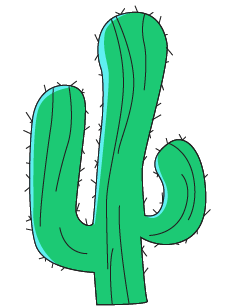
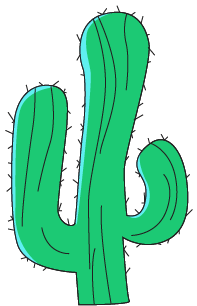
obstacles and score done

Changed region(s): [[0.0305, 0.0, 0.9746, 1.0], [0.2132, 0.7353, 0.3655, 0.8529]]

diff --git a/js/index.js b/js/index.js
@@ -3,11 +3,17 @@ const canvas = document.querySelector(`canvas`);
 canvas.style.border = `2px solid black`;
 const ctx = canvas.getContext(`2d`);
 const startScreen = document.querySelector(".start-screen");
-let keys = {};
+const gameScreen = document.querySelector("#game-screen");
+const restartScreen = document.querySelector(".restart-screen");
+// Score
+let score = document.querySelector(".score");
+let scoreValue = 0;
+let highscore = document.querySelector(".highScore");
+
 // Variables
 // key pressed
 let registerKeyPress = 0;
-let amountOfPressedAllowed = 5;
+let amountOfPressedAllowed = 4;
 // Game definitions
 const floor_01 = new Image();
 floor_01.src = "../img/floor.png";
@@ -15,17 +21,30 @@ const floor_02 = new Image();
 floor_02.src = "../img/floor.png";
 const background = new Image();
 background.src = "../img/background.png";
-const obstacle = new Image();
-obstacle.src = "../img/cactus_01.png";
+const obstacle_01 = new Image();
+obstacle_01.src = "../img/cactus_01.png";
+const obstacle_02 = new Image();
+obstacle_02.src = "../img/cactus_02.png";
+const dino_frame_count = 2;
+const frame_time = 100;
 
 let isGameOver = false;
 let gameId = 0;
 let gravity;
+let gameSpeed;
+let obstacles = [];
+
 // Dinocorn definitions
 let player;
-const dinoCorn = new Image();
-dinoCorn.src = "../img/dino_walk_01.png";
+const dinoCorn_01 = new Image();
+dinoCorn_01.src = "../img/dino_walk_01.png";
+const dinoCorn_02 = new Image();
+dinoCorn_02.src = "../img/dino_walk_02.png";
+const dinoCorn_jump = new Image();
+dinoCorn_jump.src = "../img/dino_jump.png";
+
 let jumping = false;
+
 class Dinocorn {
   constructor() {
     this.dinoX = 50;
@@ -34,77 +53,159 @@ class Dinocorn {
     this.dinoHeight = 160;
     this.originalHeigh = this.dinoY;
     this.vY = 0;
-    this.gravity = 10;
+    this.gravity = 8;
 
     this.jumpTimer = 0;
     this.grounded = false;
     this.jumpForce + 15;
+    this.groundLimit = canvas.height - 180;
   }
 
   Jump() {
-    this.vY = -8;
+    this.vY += -8;
+    jumping = true;
+
     console.log("yes");
+    console.log(jumping);
   }
   Move() {
+    let timeinAir = 0;
     //this.dinoY = -canvas.height + 600;
     if (this.dinoY + this.dinoHeight < canvas.height && jumping == false) {
       this.dinoY += this.gravity;
     }
-    if (this.dinoY < -canvas.height + 600) {
-      this.dinoY += this.gravity;
-      this.vY = 0;
-      jumping == false;
-    } else {
+    if (jumping === true) {
+      console.log("hello");
       this.dinoY += this.vY;
+    } else if (this.dinoY + this.dinoHeight > 580 && jumping == false) {
+      this.dinoY = canvas.height - 180;
+      this.vY = 0;
     }
-    /*  this.dinoY += this.vY;
-    this.vY += this.gravity;
-    if (this.dinoY > canvas.height || this.dinoY < this.originalHeigh - 180) {
-      this.dinoY = this.originalHeigh;
+    if (this.dinoY < 100) {
+      jumping = false;
+    }
+  }
+  Draw() {
+    if (jumping) {
+      ctx.drawImage(
+        dinoCorn_jump,
+        this.dinoX,
+        this.dinoY,
+        this.dinoWidth,
+        this.dinoHeight
+      );
+    } /* if (gameId % 2 === 0) */ else {
+      ctx.drawImage(
+        dinoCorn_01,
+        this.dinoX,
+        this.dinoY,
+        this.dinoWidth,
+        this.dinoHeight
+      );
+
+      setInterval(function () {
+        ctx.drawImage(
+          dinoCorn_02,
+          this.dinoX,
+          this.dinoY,
+          this.dinoWidth,
+          this.dinoHeight
+        );
+      }, 100);
+    } /*  else {
+      ctx.drawImage(
+        dinoCorn_02,
+        this.dinoX,
+        this.dinoY,
+        this.dinoWidth,
+        this.dinoHeight
+      );
     } */
-  }
-  Draw() {
-    ctx.drawImage(
-      dinoCorn,
-      this.dinoX,
-      this.dinoY,
-      this.dinoWidth,
-      this.dinoHeight
-    );
-  }
-}
-// Obstacles
-class Obstacle {
-  constructor() {
-    this.x = 50;
-    this.y = canvas.height - 180;
-    this.width = 100;
-    this.height = 160;
-    this.dX = -gameSpeed;
-  }
-  Update() {
-    this.x += this.dX;
-    this.Draw;
-    this.dX = -gameSpeed;
-  }
-  Draw() {
-    ctx.drawImage(obstacle, this.x, this.y, this.width, this.height);
   }
 }
 
+// Obstacles
+
+class Obstacle {
+  constructor(type) {
+    this.x = 1500;
+    this.y = canvas.height - 180;
+    this.width = 100;
+    this.height = 160;
+    // this.dX = -gameSpeed;
+    this.type = type;
+  }
+  /* Update() {
+    this.x += this.dX;
+    this.Draw;
+    this.dX = -gameSpeed;
+  } */
+  Draw() {
+    ctx.drawImage(this.type, this.x, this.y, this.width, this.height);
+    //ctx.drawImage(obstacle_02, this.x, this.y, this.width, this.height);
+  }
+}
+
+function RandomObstRange(min, max) {
+  return Math.round(Math.random() * (max - min) + min);
+}
+// Obstacles Creation definition
+/* let inicialTimeOb = 200;
+let intervalTimeOb = 200; */
+let obstaclesFrequency = 0;
 //floor definitions
 let floorW = 0;
 let floorW2 = canvas.width;
 
+function detectCollision(obstacle) {
+  return (
+    player.dinoX + player.dinoWidth - 20 > obstacle.x &&
+    player.dinoY + player.dinoHeight > obstacle.y &&
+    player.dinoX < obstacle.x + obstacle.width - 50
+  );
+}
 const animate = () => {
+  ctx.clearRect(0, 0, canvas.width, canvas.height);
   ctx.drawImage(background, 0, 0, canvas.width, canvas.height);
   ctx.drawImage(floor_01, floorW, canvas.height - 100, canvas.width + 50, 20);
   ctx.drawImage(floor_02, floorW2, canvas.height - 100, canvas.width + 50, 20);
 
   player.Draw();
   player.Move();
+
   console.log("test");
-  // Make Dino Jump
+
+  obstaclesFrequency++;
+
+  if (gameId % 500 == 0) {
+    //Draw an obstacle
+
+    let type = RandomObstRange(0, 1);
+    if (type === 0) {
+      type = obstacle_01;
+    } else if (type === 1) {
+      type = obstacle_02;
+    }
+    let newObstacle = new Obstacle(type);
+    obstacles.push(newObstacle);
+    console.log(obstacles);
+  }
+  for (let i = 0; i < obstacles.length; i++) {
+    obstacles[i].x -= 6;
+    obstacles[i].Draw();
+
+    if (detectCollision(obstacles[i])) {
+      alert("BOOOOOMM!");
+      isGameOver = true;
+      obstaclesFrequency = 0;
+
+      obstacles = [];
+      player = null;
+      scoreValue = 0;
+      score.innerHTML = 0;
+    }
+  }
+  // Make obstacles
 
   // Make the floor move
 
@@ -116,12 +217,23 @@ const animate = () => {
   if (floorW2 < -canvas.width) {
     floorW2 = canvas.width;
   }
+  //request animation
   if (isGameOver) {
     cancelAnimationFrame(gameId);
+    restartScreen.classList.remove(`hidden`);
+    gameScreen.classList.add("hidden");
   } else {
     // Ask for a new frame
     gameId = requestAnimationFrame(animate);
   }
+  scoreValue++;
+
+  score.innerHTML = scoreValue;
+  if (scoreValue > highscore.innerText) {
+    highscore.innerHTML = scoreValue;
+  }
+  console.log(highscore.innerHTML);
+  //scoreValue = Number(score.innerText);
 };
 
 window.onload = () => {
@@ -130,18 +242,41 @@ window.onload = () => {
     //song.play()
     startGame();
   };
-  function startGame() {
-    startScreen.style.display = "none";
+  document.getElementById("restart-button").onclick = () => {
+    console.log("restarting");
+    //song.play()
+    isGameOver = false;
 
+    startGame();
+  };
+  function startGame() {
+    restartScreen.classList.add("hidden");
+    startScreen.style.display = "none";
+    gameScreen.classList.remove("hidden");
+    //gameSpeed = 3;
+
+    //highscore = 0;
+
+    /* scoreText = new Text("Score: " + score, 25, 25, "left", "#212121", "20");
+    highscoreText = new Text(
+      "Highscore: " + highscore,
+      canvas.width - 25,
+      25,
+      "right",
+      "#212121",
+      "20"
+    ); */
     player = new Dinocorn();
     animate();
+
     document.addEventListener("keydown", (event) => {
       if (event.code === "Space") {
         console.log("jump");
         jumping = true;
         registerKeyPress++;
+
         player.Jump();
-        if (registerKeyPress >= 5) {
+        if (registerKeyPress >= amountOfPressedAllowed) {
           player.vY = 0;
           jumping = false;
           player.jumpTimer = 0;
@@ -150,9 +285,10 @@ window.onload = () => {
     });
     document.addEventListener("keyup", () => {
       player.vY = 0;
+
       jumping = false;
 
-      registerKeyPress = 0;
+      setTimeout(() => (registerKeyPress = 0), "300");
     });
   }
 };

diff --git a/index.html b/index.html
@@ -12,15 +12,33 @@
       <div class="logo">
         <img src="/img/dino_game_logo.png" alt="Dino Game" />
       </div>
+      <!-- <div class="high-score-div">
+        <p>Highscore: <span class="highScore"> 0 </span></p>
+      </div> -->
       <button id="start-button">
         <img src="/img/button_start.png" alt="start button" />
       </button>
     </div>
 
-    <div id="game-screen">
+    <div id="game-screen" class="hidden">
+      <div class="scores">
+        <div class="high-score-div">
+          <p>Highscore: <span class="highScore"> 0 </span></p>
+        </div>
+        <div id="score-div">
+          <p>Score: <span class="score"> 0 </span></p>
+        </div>
+      </div>
       <canvas id="game" width="1920" height="600"></canvas>
     </div>
-
+    <div class="restart-screen hidden">
+      <div class="logo">
+        <img src="/img/dino_game_logo.png" alt="Dino Game" />
+      </div>
+      <button id="restart-button">
+        <img src="/img/button_start.png" alt="start button" />
+      </button>
+    </div>
     <script type="text/javascript" src="js/index.js"></script>
   </body>
 </html>

diff --git a/src/styles.css b/src/styles.css
@@ -18,3 +18,9 @@ button {
 .background {
   position: relative;
 }
+.hidden {
+  display: none;
+}
+.scores {
+  position: absolute;
+}
